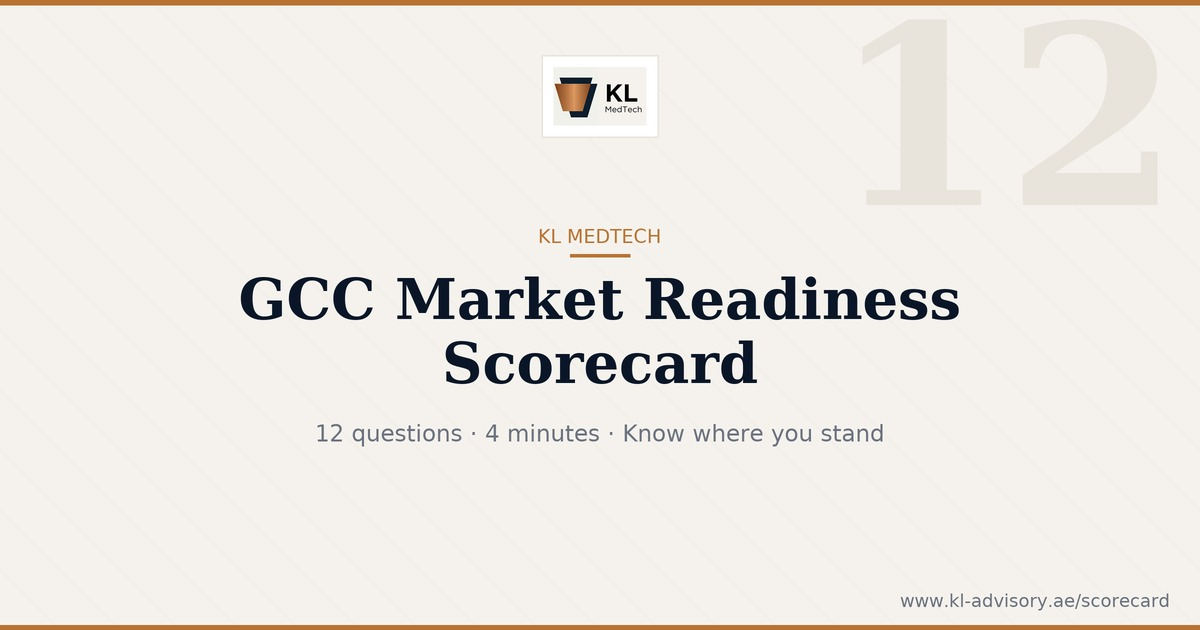
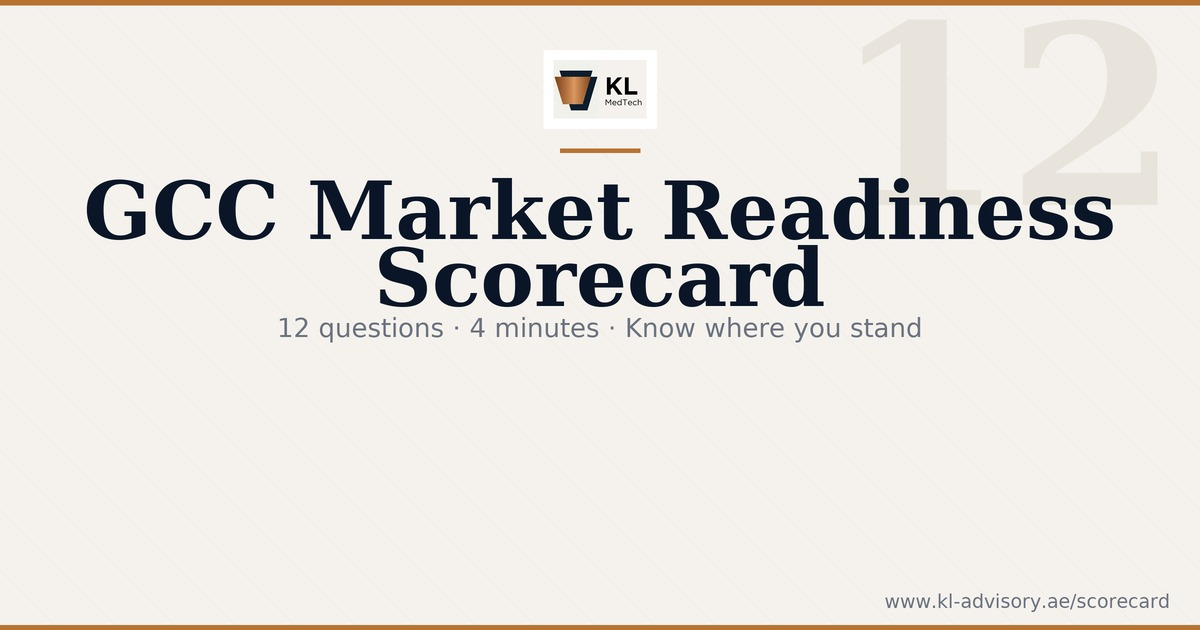
OG images: no border, auto-fit fonts, no kicker, og-main.jpg (cache bust)

Changed region(s): [[0.0617, 0.0905, 0.925, 0.6333], [0.2775, 0.6635, 0.74, 0.7238], [0.74, 0.9349, 0.9867, 0.9651]]

diff --git a/index.html b/index.html
@@ -230,7 +230,7 @@
     <meta property="og:url" content="https://www.kl-advisory.ae/" />
     <meta property="og:title" content="KL MedTech | GCC Commercial Architecture" />
     <meta property="og:description" content="Your product is cleared. Its commercial system is not. GCC Commercial Architecture for international MedTech companies." />
-    <meta property="og:image" content="https://www.kl-advisory.ae/assets/og-image.jpg" />
+    <meta property="og:image" content="https://www.kl-advisory.ae/assets/og-main.jpg" />
     <meta property="og:image:width" content="1200" />
     <meta property="og:image:height" content="630" />
     <meta property="og:image:type" content="image/jpeg" />
@@ -240,7 +240,7 @@
     <meta name="twitter:card" content="summary_large_image" />
     <meta name="twitter:title" content="KL MedTech | GCC Commercial Architecture" />
     <meta name="twitter:description" content="Your product is cleared. Its commercial system is not. GCC Commercial Architecture for international MedTech companies." />
-    <meta name="twitter:image" content="https://www.kl-advisory.ae/assets/og-image.jpg" />
+    <meta name="twitter:image" content="https://www.kl-advisory.ae/assets/og-main.jpg" />
 
 </head>
 <body>